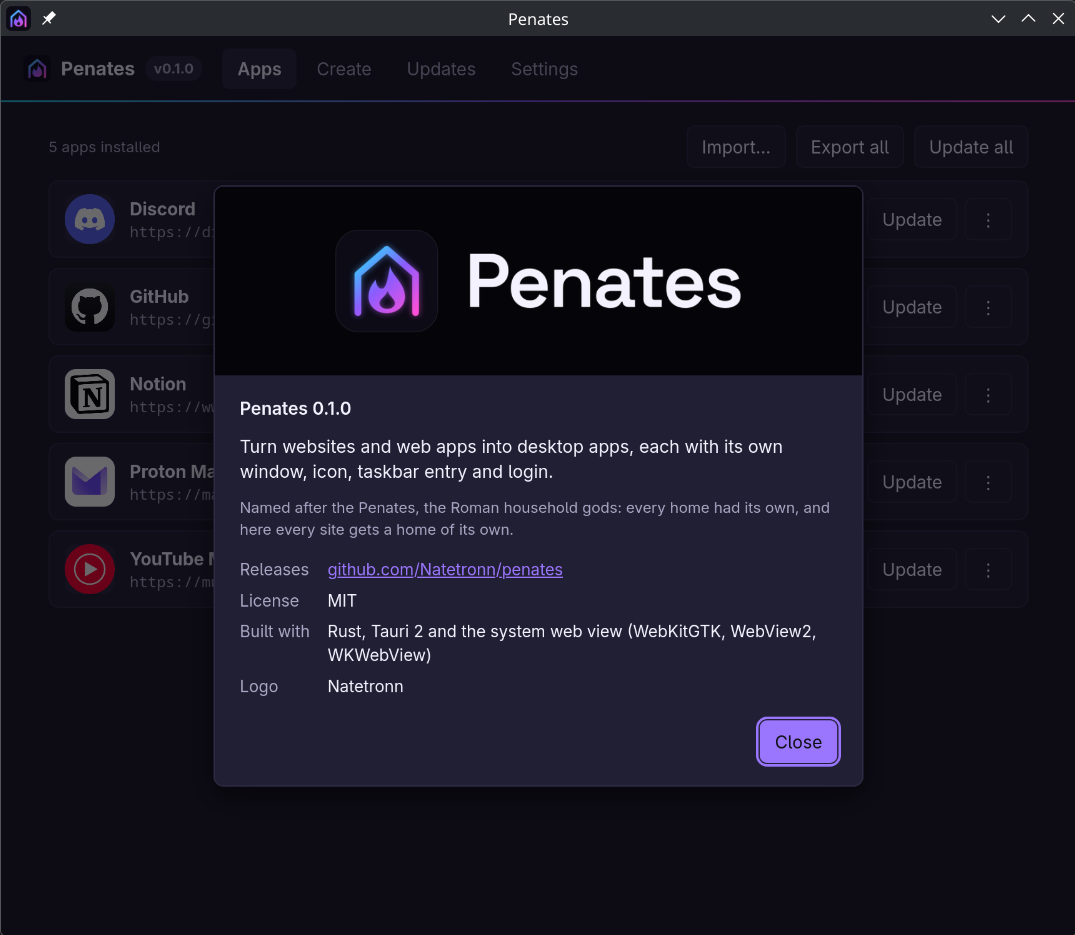
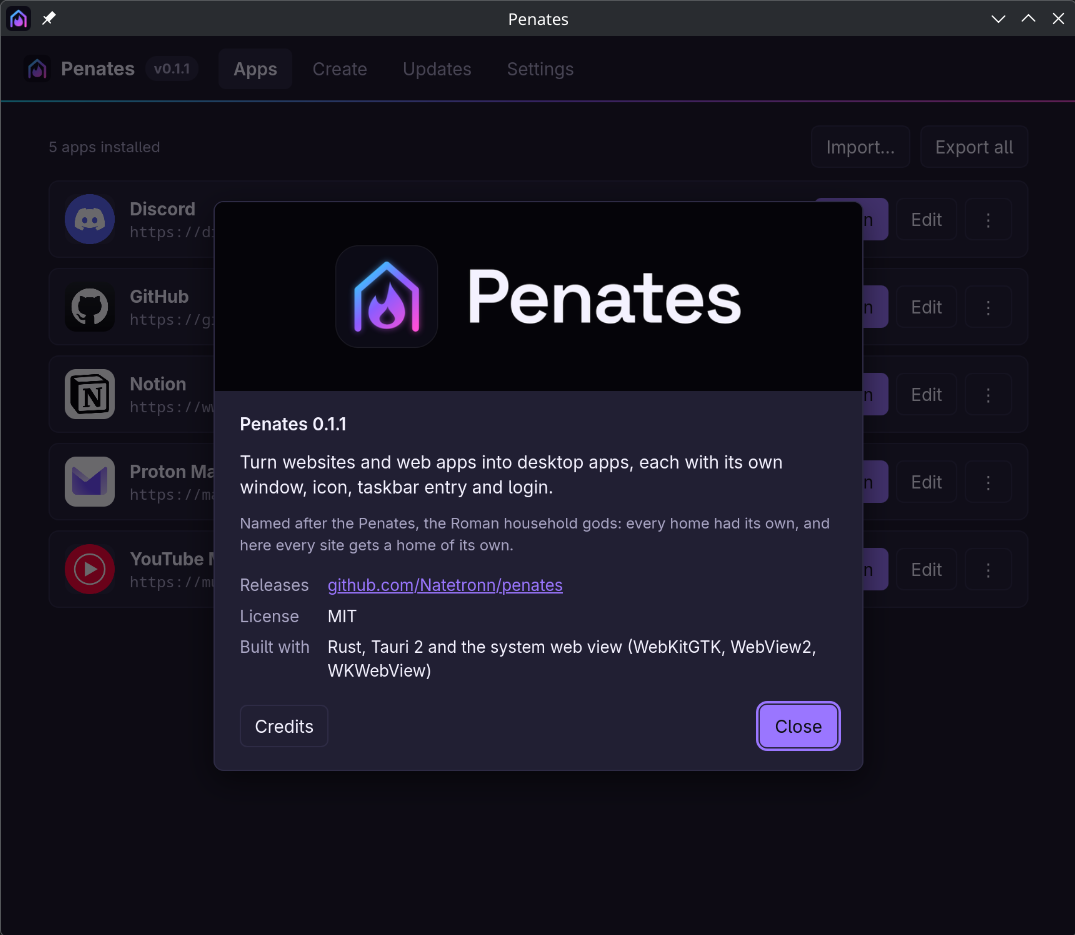
Penates 0.1.1

diff --git a/CHANGELOG.md b/CHANGELOG.md
@@ -5,27 +5,30 @@ Format follows [Keep a Changelog](https://keepachangelog.com/en/1.1.0/). Version
 
 ## [Unreleased]
 
-### Changed
-- Updates are in one place: the Updates tab has a Penates section and a Your apps section, each with its own check (and Update all apps under Your apps). Settings → Updates only holds settings. The Apps tab lost its "Update all" button.
+## [0.1.1] - 2026-11-15
+Share apps with the catalog, start apps in the tray, browser keys in app windows, Credits with full license texts, and a round of fixes.
 
 ### Added
-- AUR package `penates`, built from the tagged source (beside `penates-bin`, the prebuilt release); x86_64 and aarch64.
-- A second app for the same site gets a numbered name ("GitHub 2") when its name comes from the site, so menus and taskbars tell them apart; a name you type is kept as typed. Edit shows each app's id.
 - Share an app with the app catalog: ⋮ → **Share with the app catalog…** (or `penates submit <id> --notes "…"`) shows the entry for review and opens GitHub with it filled in, as a new file for a new site or an issue suggesting a change for a site already in the catalog. Custom JavaScript is never included, and Penates sends nothing itself.
-- Credits in the About dialog: who made Penates, what it is built on, every open-source component with its license, and the full license texts. Every package carries `THIRD-PARTY-LICENSES.txt`; the AppImage also carries `SYSTEM-LIBRARIES.txt`, the license notices and source references of the system libraries it bundles.
-- App list: every row has Open, Edit and ⋮ in the same places; Update is in the ⋮ menu, and an "update available" pill (linking to the Updates tab) shows when that app has a newer preset; double-click an app's icon or name to open it.
 - "When it starts" per app (Edit → Window): open the window, start minimized, or start only in the tray. Without a tray icon, "only in the tray" starts minimized so the app is never unreachable.
 - App windows have browser-style navigation: Alt+Left/Right (Cmd+[ and ] on macOS) and the mouse's back and forward buttons go back and forward; F5 and Ctrl+R reload. A page that uses one of these keys itself keeps it.
-- Development builds show their commit next to the version (`0.1.0+8b4141a`) in the manager and `penates --version`; release builds show the plain version.
 - Popular apps show each site's real icon, fetched once and cached for 30 days (`~/.cache/penates/catalog-icons/`, safe to delete).
+- Credits in the About dialog: who made Penates, what it is built on, every open-source component with its license, and the full license texts. Every package carries `THIRD-PARTY-LICENSES.txt`; the AppImage also carries `SYSTEM-LIBRARIES.txt`, the license notices and source references of the system libraries it bundles.
+- A second app for the same site gets a numbered name ("GitHub 2") when its name comes from the site, so menus and taskbars tell them apart; a name you type is kept as typed. Edit shows each app's id.
+- Development builds show their commit next to the version (`0.1.1+8b4141a`) in the manager and `penates --version`; release builds show the plain version.
+- AUR package `penates`, built from the tagged source (beside `penates-bin`, the prebuilt release); x86_64 and aarch64.
+
+### Changed
+- Updates are in one place: the Updates tab has a Penates section and a Your apps section, each with its own check, and Update all apps under Your apps. Settings → Updates holds only settings.
+- App list: every row has Open, Edit and ⋮ in the same places. Update is in the ⋮ menu, and an "update available" pill (linking to Updates) shows when an app has a newer preset. Double-click an app's icon or name to open it.
 
 ### Fixed
-- Choosing "System" in the manager's Light or dark setting forced light on Linux after picking Light or Dark; it now follows the desktop (read from the XDG settings portal).
-- Favicons in ICO files whose largest image is a grayscale or palette PNG (Tailscale's, for one) were rejected; Penates now reads the file's images one by one.
-- After installing from the tarball, KDE's menu shows the Penates icon right away (the installer tells KDE programs the icon theme changed).
-- Import's file chooser showed no `.penates` files on Linux (the file filter only understood JSON); it now shows all files and checks the one you pick.
-- Apps opened from the manager no longer linger as defunct processes after you close them.
-- The CLI no longer panics when its output is cut short, e.g. `penates check | head -1`; it exits quietly like other command line tools.
+- Choosing "System" in the manager's Light or dark setting forced light on Linux after picking Light or Dark; it follows the desktop (read from the XDG settings portal).
+- Favicons in ICO files whose largest image is a grayscale or palette PNG (Tailscale's, for one) were rejected; Penates reads the file's images one by one.
+- After installing from the tarball, KDE's menu shows the Penates icon right away.
+- Import's file chooser showed no `.penates` files on Linux; it shows all files and checks the one you pick.
+- Apps opened from the manager lingered as defunct processes after you closed them.
+- The CLI panicked when its output was cut short, e.g. `penates check | head -1`; it exits quietly like other command line tools.
 
 ## [0.1.0] - 2026-11-15
 First release. Verified by hand on Linux (KDE Plasma, Wayland); Linux, Windows and macOS pass CI smoke tests.
@@ -71,5 +74,6 @@ First release. Verified by hand on Linux (KDE Plasma, Wayland); Linux, Windows a
 - A page's own script can still navigate the window to another site (only link clicks are sent to the browser).
 - Two apps whose ids hash to the same loopback port lose single-window mode and the "is it running" check (rare).
 
-[Unreleased]: https://github.com/Natetronn/penates/compare/v0.1.0...HEAD
+[Unreleased]: https://github.com/Natetronn/penates/compare/v0.1.1...HEAD
+[0.1.1]: https://github.com/Natetronn/penates/compare/v0.1.0...v0.1.1
 [0.1.0]: https://github.com/Natetronn/penates/releases/tag/v0.1.0

diff --git a/README.md b/README.md
@@ -26,9 +26,9 @@ AppImage, .deb, .rpm, Windows installer, macOS .dmg, or on Arch `paru -S penates
 ## Screenshots
 | Your apps (light) | Edit an app |
 |---|---|
-| <img src="docs/images/manager-apps-light.png" width="400" alt="The app list in light mode"> | <img src="docs/images/manager-edit.png" width="400" alt="Editing GitHub: name, URL, icon picker and window options"> |
+| <img src="docs/images/manager-apps-light.png" width="400" alt="The app list in light mode"> | <img src="docs/images/manager-edit.png" width="400" alt="Editing GitHub: name, URL, id, icon picker and window options"> |
 | **Settings** | **About** |
-| <img src="docs/images/manager-settings.png" width="400" alt="Settings: four looks, light or dark, accent colors and update checks"> | <img src="docs/images/manager-about.png" width="400" alt="About Penates: logo, version and credits"> |
+| <img src="docs/images/manager-settings.png" width="400" alt="Settings: four looks, light or dark, accent colors, update checking and the app catalog"> | <img src="docs/images/manager-about.png" width="400" alt="About Penates: logo, version, links and Credits"> |
 
 ## Install
 Get an installer from the [releases page](https://github.com/Natetronn/penates/releases/latest). macOS needs version 14 or later.
